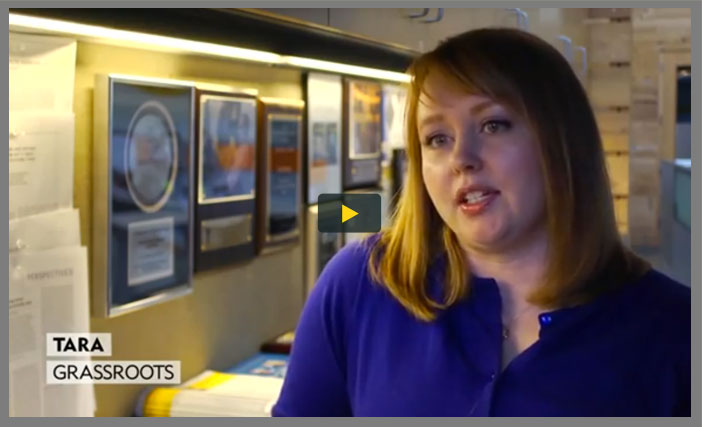
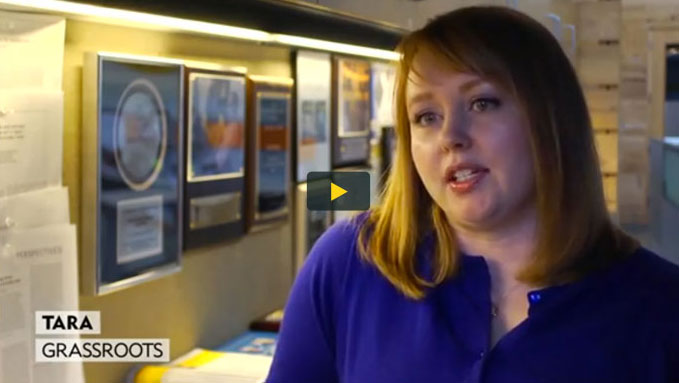
git made me commit before pulling

diff --git a/index.html b/index.html
@@ -128,7 +128,7 @@
 									possibility of in vitro fertilization and connected Sarah to the LIVESTRONG Foundation, everything changed.</p>
 								<p>Sarah and her husband worked with one of our navigators to help pay for the medications and services for freezing embryos. And when her sister-in-law stepped forward to be a surrogate, their dreams came true. Lilly Dee was born nine months later.</p>
 								<p>Sarah sums it up, "The LIVESTRONG Foundation made what we thought was impossible... possible."</p>
-								<p><a class="sentinelblackitalic yellow" style="text-decoration: underline;" href="" id="watch-savahs-video">Watch Sarah's Video</a></p>
+								<p><a class="sentinelblackitalic yellow" style="text-decoration: underline;" href="" id="watch-sarahs-video">Watch Sarah's Video</a></p>
 							</div>
 							</span>
 							<div id="sarahs-video-wrap">
@@ -186,6 +186,7 @@
 						
 						
 						<li class="slide-four black-overlay">
+							<img class="mobile" style="float: right; margin: -70px -6% 0 0; max-width: 80%;" src="img/sliver-right-yellow.png" alt="">
 							<div class="relative">
 								<h2 class="mreavessansreg white caps">But for us, the proof is always in the people. Never a number, but a name. Never a statistic, but a voice. Introducing Iram and Sarah.</h2>
 								<div class="video-wrap">
@@ -251,7 +252,14 @@
 								<p class="caps mreavessansreg">The power of a grassroots movement that truly harnesses the passion of its advocates should never be underestimated. And when it comes to passionate advocates worldwide, 2012 was a banner year for the LIVE<span class="mreavessansbold">STRONG</span> Foundation.</p>
 								<p>This tremendous generosity allows us to provide all of our free services and resources, like the LIVESTRONG Guidebook, cancer navigation services and LIVESTRONG at School, among many others. Since our inception, we have raised over $500 million dollars for the fight against cancer, and 82% of those funds have gone directly to support our programs and services for survivors.</p>
 							</div>
-							<a href="#"><img id="tara-thumb" class="fleft" src="img/tara.jpg" alt="" /></a>
+						
+							<div id="taras-video-wrap">
+							<div class="video-wrap">
+								<a href="#" class="" id="tara-video"><img src="img/tara.jpg" alt="" /></a>
+								<div class="video-container" style="display: none;"></div>
+							</div>
+							</div>
+							
 							<div style="clear: both;"></div>	
 				        </li>
 						<li class="slide-three">
@@ -685,47 +693,70 @@
 			$('#melissa-video').on('click', function(event) {
 				event.preventDefault();
 				var videoHeight = $('#melissa-video img').height();
+				var videoWidth = $('#melissa-video img').width();
 				$(this).hide();
-				setTimeout(function() { $('#navigationservices .slide-two .text-block').animate({opacity: 0.3}, 1700); }, 500);
-				$('#navigationservices .slide-two .video-container').height(videoHeight).show();
+				if (!window.isMobile()) { setTimeout(function() { $('#navigationservices .slide-two .text-block').animate({opacity: 0.3}, 1700); }, 500); }
+				$('#navigationservices .slide-two .video-container').height(videoHeight).width(videoWidth).show();
 			    $('#navigationservices .slide-two .video-container').html('<span id="melissa-close" class="close-white"></span><iframe src="http://www.youtube.com/embed/LsAMPXe8lrI?autohide=1&autoplay=1&controls=2&rel=0&showinfo=0&iv_load_policy=3&theme=light" width="320" height="240" frameborder="0" allowfullscreen="true">').css('background', 'none');
-			$('#melissa-close').on('click', function(event) {
+			$('#melissa-close').on('click', function(event) {				
 				$('#navigationservices .slide-two .video-container').html('').hide();
 				$('#melissa-video').show();
-				setTimeout(function() { $('#navigationservices .slide-two .text-block').animate({opacity: 1.0}, 1700); }, 500);
+				if (!window.isMobile()) { setTimeout(function() { $('#navigationservices .slide-two .text-block').animate({opacity: 1.0}, 1700); }, 500); }
 			});
 			});	
+			
+			$('#tara-video').on('click', function(event) {
+				event.preventDefault();
+				var videoHeight = $('#tara-video img').height();
+				var videoWidth = $('#tara-video img').width();
+				$(this).hide();
+				if (!window.isMobile()) { setTimeout(function() { $('#program .slide-two .text-block').animate({opacity: 0.3}, 1700); }, 500); }
+				$('#program .slide-two .video-container').height(videoHeight).width(videoWidth).show();
+			    $('#program .slide-two .video-container').html('<span id="tara-close" class="close-black"></span><iframe src="http://www.youtube.com/embed/LsAMPXe8lrI?autohide=1&autoplay=1&controls=2&rel=0&showinfo=0&iv_load_policy=3&theme=light" width="320" height="240" frameborder="0" allowfullscreen="true">').css('background', 'none');
+			$('#tara-close').on('click', function(event) {				
+				$('#program .slide-two .video-container').html('').hide();
+				$('#tara-video').show();
+				if (!window.isMobile()) { setTimeout(function() { $('#program .slide-two .text-block').animate({opacity: 1.0}, 1700); }, 500); }
+			});
+			});
 			
 			
 			$('#iram-video').on('click', function(event) {
 				event.preventDefault();
 				var videoHeight = $('#iram-video img').height();
+				var videoWidth = $('#iram-video img').width();
 				$(this).hide();
-				setTimeout(function() { $('#navigationservices .slide-four h2').animate({opacity: 0.3}, 1700); }, 500);
-				$('#navigationservices .slide-four .video-container').height(videoHeight).show();
-			    $('#navigationservices .slide-four .video-container').html('<span id="iram-close" class="close-white"></span><iframe src="http://www.youtube.com/embed/X5cKt9vBeFA?autohide=1&autoplay=1&controls=2&rel=0&showinfo=0&iv_load_policy=3&theme=light" width="320" height="240" frameborder="0" allowfullscreen="true">').css('background', 'none');
+				if (!window.isMobile()) { setTimeout(function() { $('#navigationservices .slide-four h2').animate({opacity: 0.3}, 1700); }, 500); }
+				$('#navigationservices .slide-four .video-container').height(videoHeight).width(videoWidth).show();
+			    $('#navigationservices .slide-four .video-container').html('<div id="iram-close" class="close-white"></div><iframe src="http://www.youtube.com/embed/X5cKt9vBeFA?autohide=1&autoplay=1&controls=2&rel=0&showinfo=0&iv_load_policy=3&theme=light" width="320" height="240" frameborder="0" allowfullscreen="true">').css('background', 'none');
 			$('#iram-close').on('click', function(event) {
 				$('#navigationservices .slide-four .video-container').html('').hide();
 				$('#iram-video').show();
-				setTimeout(function() { $('#navigationservices .slide-four h2').animate({opacity: 1.0}, 1700); }, 500);
+			if (!window.isMobile()) {	setTimeout(function() { $('#navigationservices .slide-four h2').animate({opacity: 1.0}, 1700); }, 500); }
 			});
 			});
 			
 			
+			$('#sarah-video').on('click', function(event) {
+				event.preventDefault();
+				var videoHeight = $('#sarah-video img').height();
+				var videoWidth = $('#sarah-video img').width();
+				$(this).hide();
+				$('#navigationservices .slide-one .video-container').height(videoHeight).width(videoWidth).show();
+			    $('#navigationservices .slide-one .video-container').html('<iframe src="http://www.youtube.com/embed/1hPLWtMU1Mg?autohide=1&autoplay=1&controls=2&rel=0&showinfo=0&iv_load_policy=3&theme=light" width="320" height="240" frameborder="0" allowfullscreen="true">').css('background', 'none');
+			});
 			
 			
 			
-			
-			$('#watch-savahs-video').click(function(event) {
+			$('#watch-sarahs-video').on('click',  function(event) {
 					event.preventDefault();
-					$('#navigationservices .slide-one .dim, #navigationservices .slide-one .dim *').animate({opacity: 0.4}, 700, function() {
+					$.when($('#navigationservices .slide-one .dim, #navigationservices .slide-one .dim *').animate({opacity: 0.4}, 700)).then(function() {
 						$('#sarahs-video-wrap').fadeIn(700, function() {
-			
 							var videoHeight = $('#sarah-video img').height();
 							var videoWidth = $('#sarah-video img').width();
 							$('#sarah-video img').hide();
 							$('#sarahs-video-wrap .video-container').height(videoHeight).width(videoWidth).show();
-						    $('#sarahs-video-wrap .video-container').html('<span id="sarah-close" class="close-white"></span><iframe src="http://www.youtube.com/embed/1hPLWtMU1Mg?autohide=1&autoplay=1&controls=2&rel=0&showinfo=0&iv_load_policy=3&theme=light" width="320" height="240" frameborder="0" allowfullscreen="true">');
+						    $('#sarahs-video-wrap .video-container').html('<div id="sarah-close" class="close-white"></div><iframe src="http://www.youtube.com/embed/1hPLWtMU1Mg?autohide=1&autoplay=1&controls=2&rel=0&showinfo=0&iv_load_policy=3&theme=light" width="1024" height="768" frameborder="0" allowfullscreen="true">');
 						$('#sarah-close').on('click', function(event) {
 							$('#sarahs-video-wrap').fadeOut(700, function() { 
 								$('#sarahs-video-wrap .video-container').html('');
@@ -737,9 +768,18 @@
 				});
 			});
 			
+			$('#brian-video').on('click', function(event) {
+				event.preventDefault();
+				var videoHeight = $('#brian-video img').height();
+				var videoWidth = $('#brian-video img').width();
+				$(this).hide();
+				$('#navigationservices .slide-five .video-container').height(videoHeight).width(videoWidth).show();
+			    $('#navigationservices .slide-five .video-container').html('<iframe src="http://www.youtube.com/embed/BFOKXBkvHKE?autohide=1&autoplay=1&controls=2&rel=0&showinfo=0&iv_load_policy=3&theme=light" width="320" height="240" frameborder="0" allowfullscreen="true">').css('background', 'none');
+			});
+			
 			$('#watch-brians-video').click(function(event) {
 					event.preventDefault();
-					$('#navigationservices .slide-five .dim, #navigationservices .slide-five .dim *').animate({opacity: 0.4}, 700, function() {
+					$.when($('#navigationservices .slide-five .dim, #navigationservices .slide-five .dim *').animate({opacity: 0.4}, 700)).then(function() {
 						$('#brians-video-wrap').fadeIn(700, function() {
 			
 							var videoHeight = $('#brian-video img').height();
@@ -803,6 +843,6 @@
             s.parentNode.insertBefore(g,s)}(document,'script'));
         </script>
 		<script type="text/javascript" src="js/dave.js"></script>
-
+		<span id="isMobile"></span>
     </body>
 </html>

diff --git a/css/dave.css b/css/dave.css
@@ -1,4 +1,6 @@
 
+
+
 .lsf-logo { position: relative; left: -50%; }
 
 #mission { position: fixed; width: 100%; }
@@ -13,12 +15,11 @@
 }
 
 #body-wrap {
-
 	position: absolute;
 	top: 600px;
 	width: 100%;
 	overflow: hidden;
-	z-index: 100;
+	z-index: 10;
 	background: #fff;
 }
 
@@ -52,11 +53,16 @@ float: none;
 }
 
 #sarahs-video-wrap h3 {
-	width: 20.828%;
+	width: 23.828%;
 }
 
+#taras-video-wrap .video-wrap {
+	width: auto;
+}
+
+
 #brians-video-wrap h3 {
-	width: 25.828%;
+	width: 20.828%;
 }
 
 
@@ -69,16 +75,14 @@ float: none;
 	max-width: 679px;
 }
 
-#iram-video img, #sarah-video img, #melissa-video img, #brian-video img {
+#iram-video img, #sarah-video img, #melissa-video img, #brian-video img, #tara-video img {
 border: 8px solid #7d7d7d;	
 width: 74%; max-width: 679px;	
 }
 
-#sarah-video img, #brian-video img {
+#sarah-video img, #brian-video img, #tara-video img, #melissa-video img  {
 	width: 100%;
 }
-
-#melissa-video img { width: 100%; }
 
 #sarahs-video-wrap, #brians-video-wrap {
 	position: absolute;
@@ -111,6 +115,10 @@ float: none;
 	margin: auto auto auto 5%;
 }
 
+#taras-video-wrap .video-wrap {
+	width: auto;
+}
+
 #sarahs-video-wrap .video-container {
 	background-image: url(../img/sarah-thumb.jpg);
 	background-position: 0 0;
@@ -130,7 +138,7 @@ width: 100%;
 }
 
 .video-wrap {
-	display: inline-block; text-align: left; vertical-align: middle; width: 71.844%;
+	display: inline-block; text-align: left; vertical-align: middle; width: 71.649%;
 }
 
 
@@ -143,8 +151,73 @@ width: 100%;
 	top: -10px;
 	right: -75px;
 	display: block;
+	cursor: pointer;
+	z-index: 1000000;
 }
 
 .close-black {
-	background-position: 0 -39px;
+	background-position: -37px 0;
 }
+
+#isMobile { display: none; }
+
+
+@media screen and (max-width: 1023px) {
+	
+#iram-video img, #sarah-video img, #melissa-video img, #brian-video img, #tara-video img { width:100%; }
+#navigationservices .slide-four h2 { width: 95%; }
+#navigationservices .slide-four h3, #sarahs-video-wrap h3, #brians-video-wrap h3 { width: 100%; }
+
+	.video-wrap {
+	width: 80% !important;
+	margin: auto;
+	padding: 0;
+	}
+	.close-white, .close-black  { display: none; }
+	
+	#watch-sarahs-video { display: none; }
+	
+	#sarahs-video-wrap, #brians-video-wrap {
+		position: relative;
+		display: block;
+		margin:0;
+		padding:0; 
+	}
+	
+	#watch-brians-video { display: none; }
+	#isMobile { display: block; }
+
+}
+
+
+@media only screen and (min-width : 320px) and (max-width : 480px) {
+
+	#mission {
+	height: 100%;
+	position: relative; 
+	}
+
+	#body-wrap {
+
+		position: relative;
+		top: 0;
+	}
+
+#mission .relative {
+	padding-top: 30%;
+}
+
+#mission .white-circle {
+	width: 20px;
+	height: 20px;
+	padding-top: 9px;
+}
+
+#mission .white-circle .black-triangle {
+	border-width: 4px 6px 0 6px;	
+}
+
+
+}
+
+

diff --git a/js/dave.js b/js/dave.js
@@ -1,4 +1,9 @@
 
+
+window.isMobile = function() {
+	return ($('#isMobile').css('display') == "block" ? true : false);
+}
+
 // onscroll, fade in and out the mission section
 var missionFader = {
 	state: 0,
@@ -23,10 +28,13 @@ var missionFader = {
 $(document).ready(function() {
 	
 	setTimeout(function() { $('#scroll-button').animate({ bottom: '8%', opacity: 0.5},350, function() { $(this).stop().animate({opacity: 1.0}, 900); }); }, 1000);
-	setInterval(function() { missionFader.ping($(window).scrollTop());}, 700);
 
-	$(window).scroll(function() {
-		missionFader.ping($(window).scrollTop()); // setup mission fader scrolling
-	});
+	if ($('.isMobile').css('display') == "none") {
+		setInterval(function() { missionFader.ping($(window).scrollTop());}, 700);
+    
+		$(window).scroll(function() {
+	        missionFader.ping($(window).scrollTop()); // setup mission fader scrolling
+		});
+	}
 	
 });
